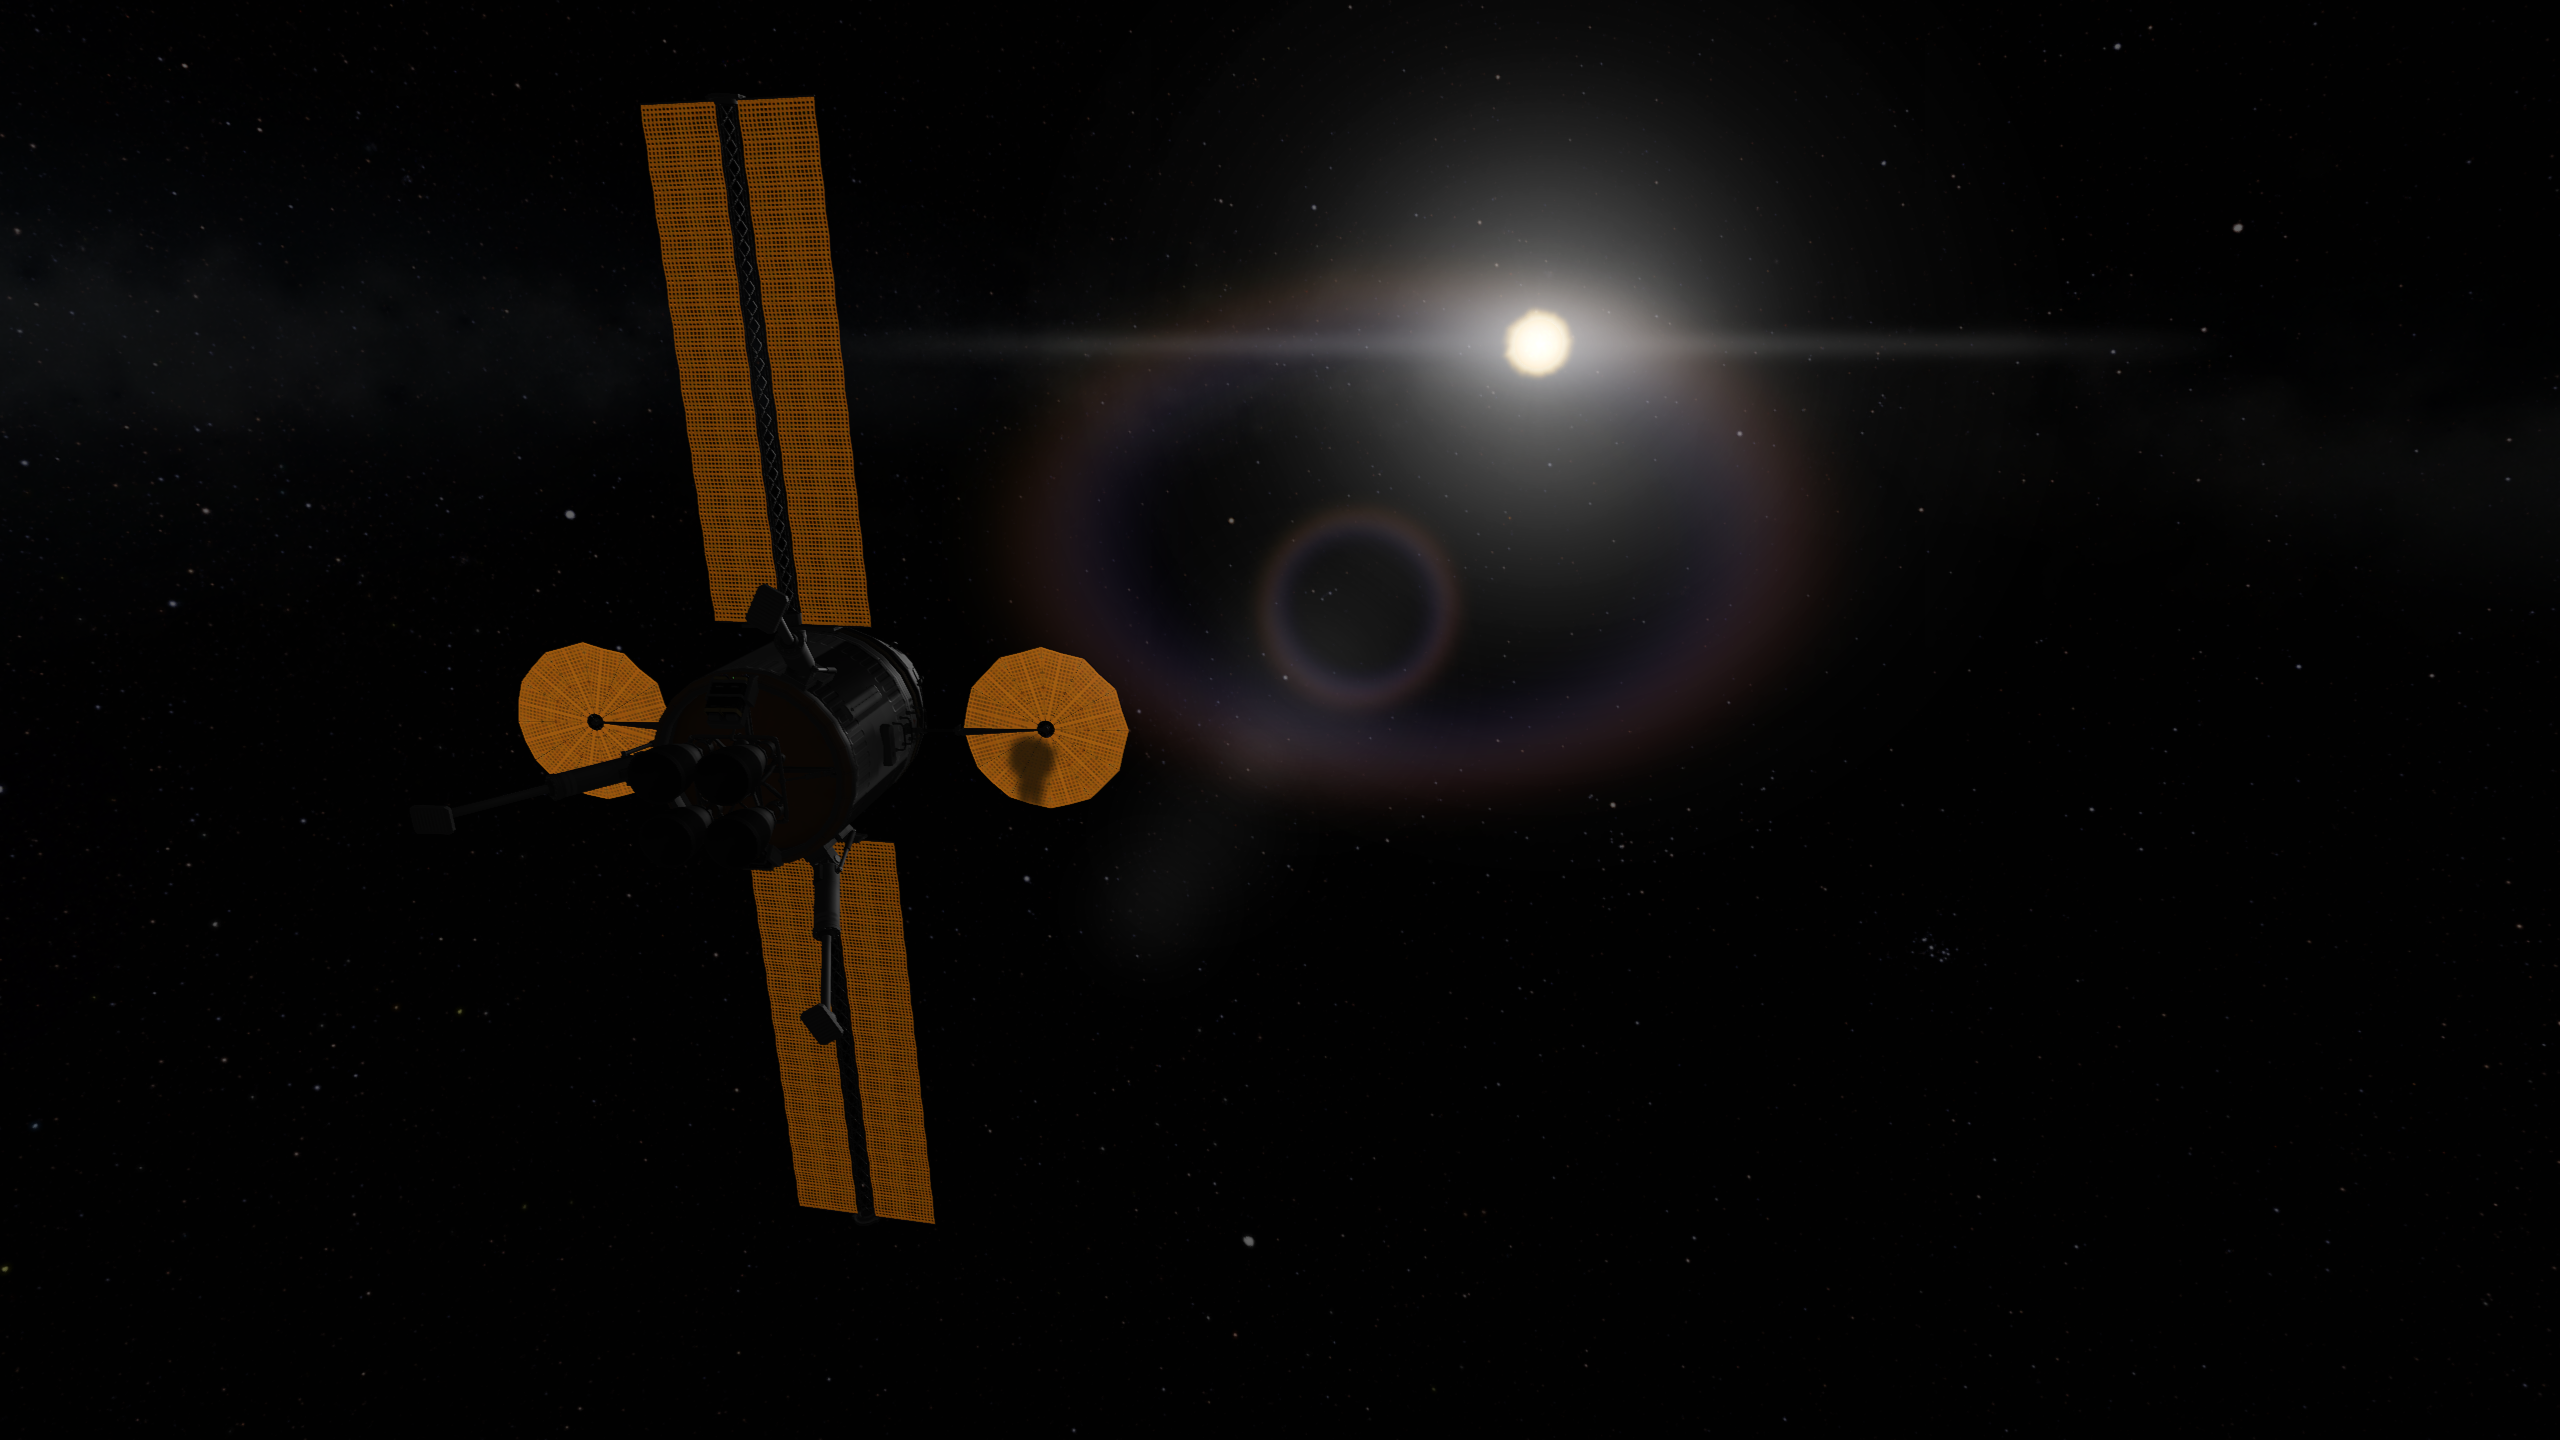
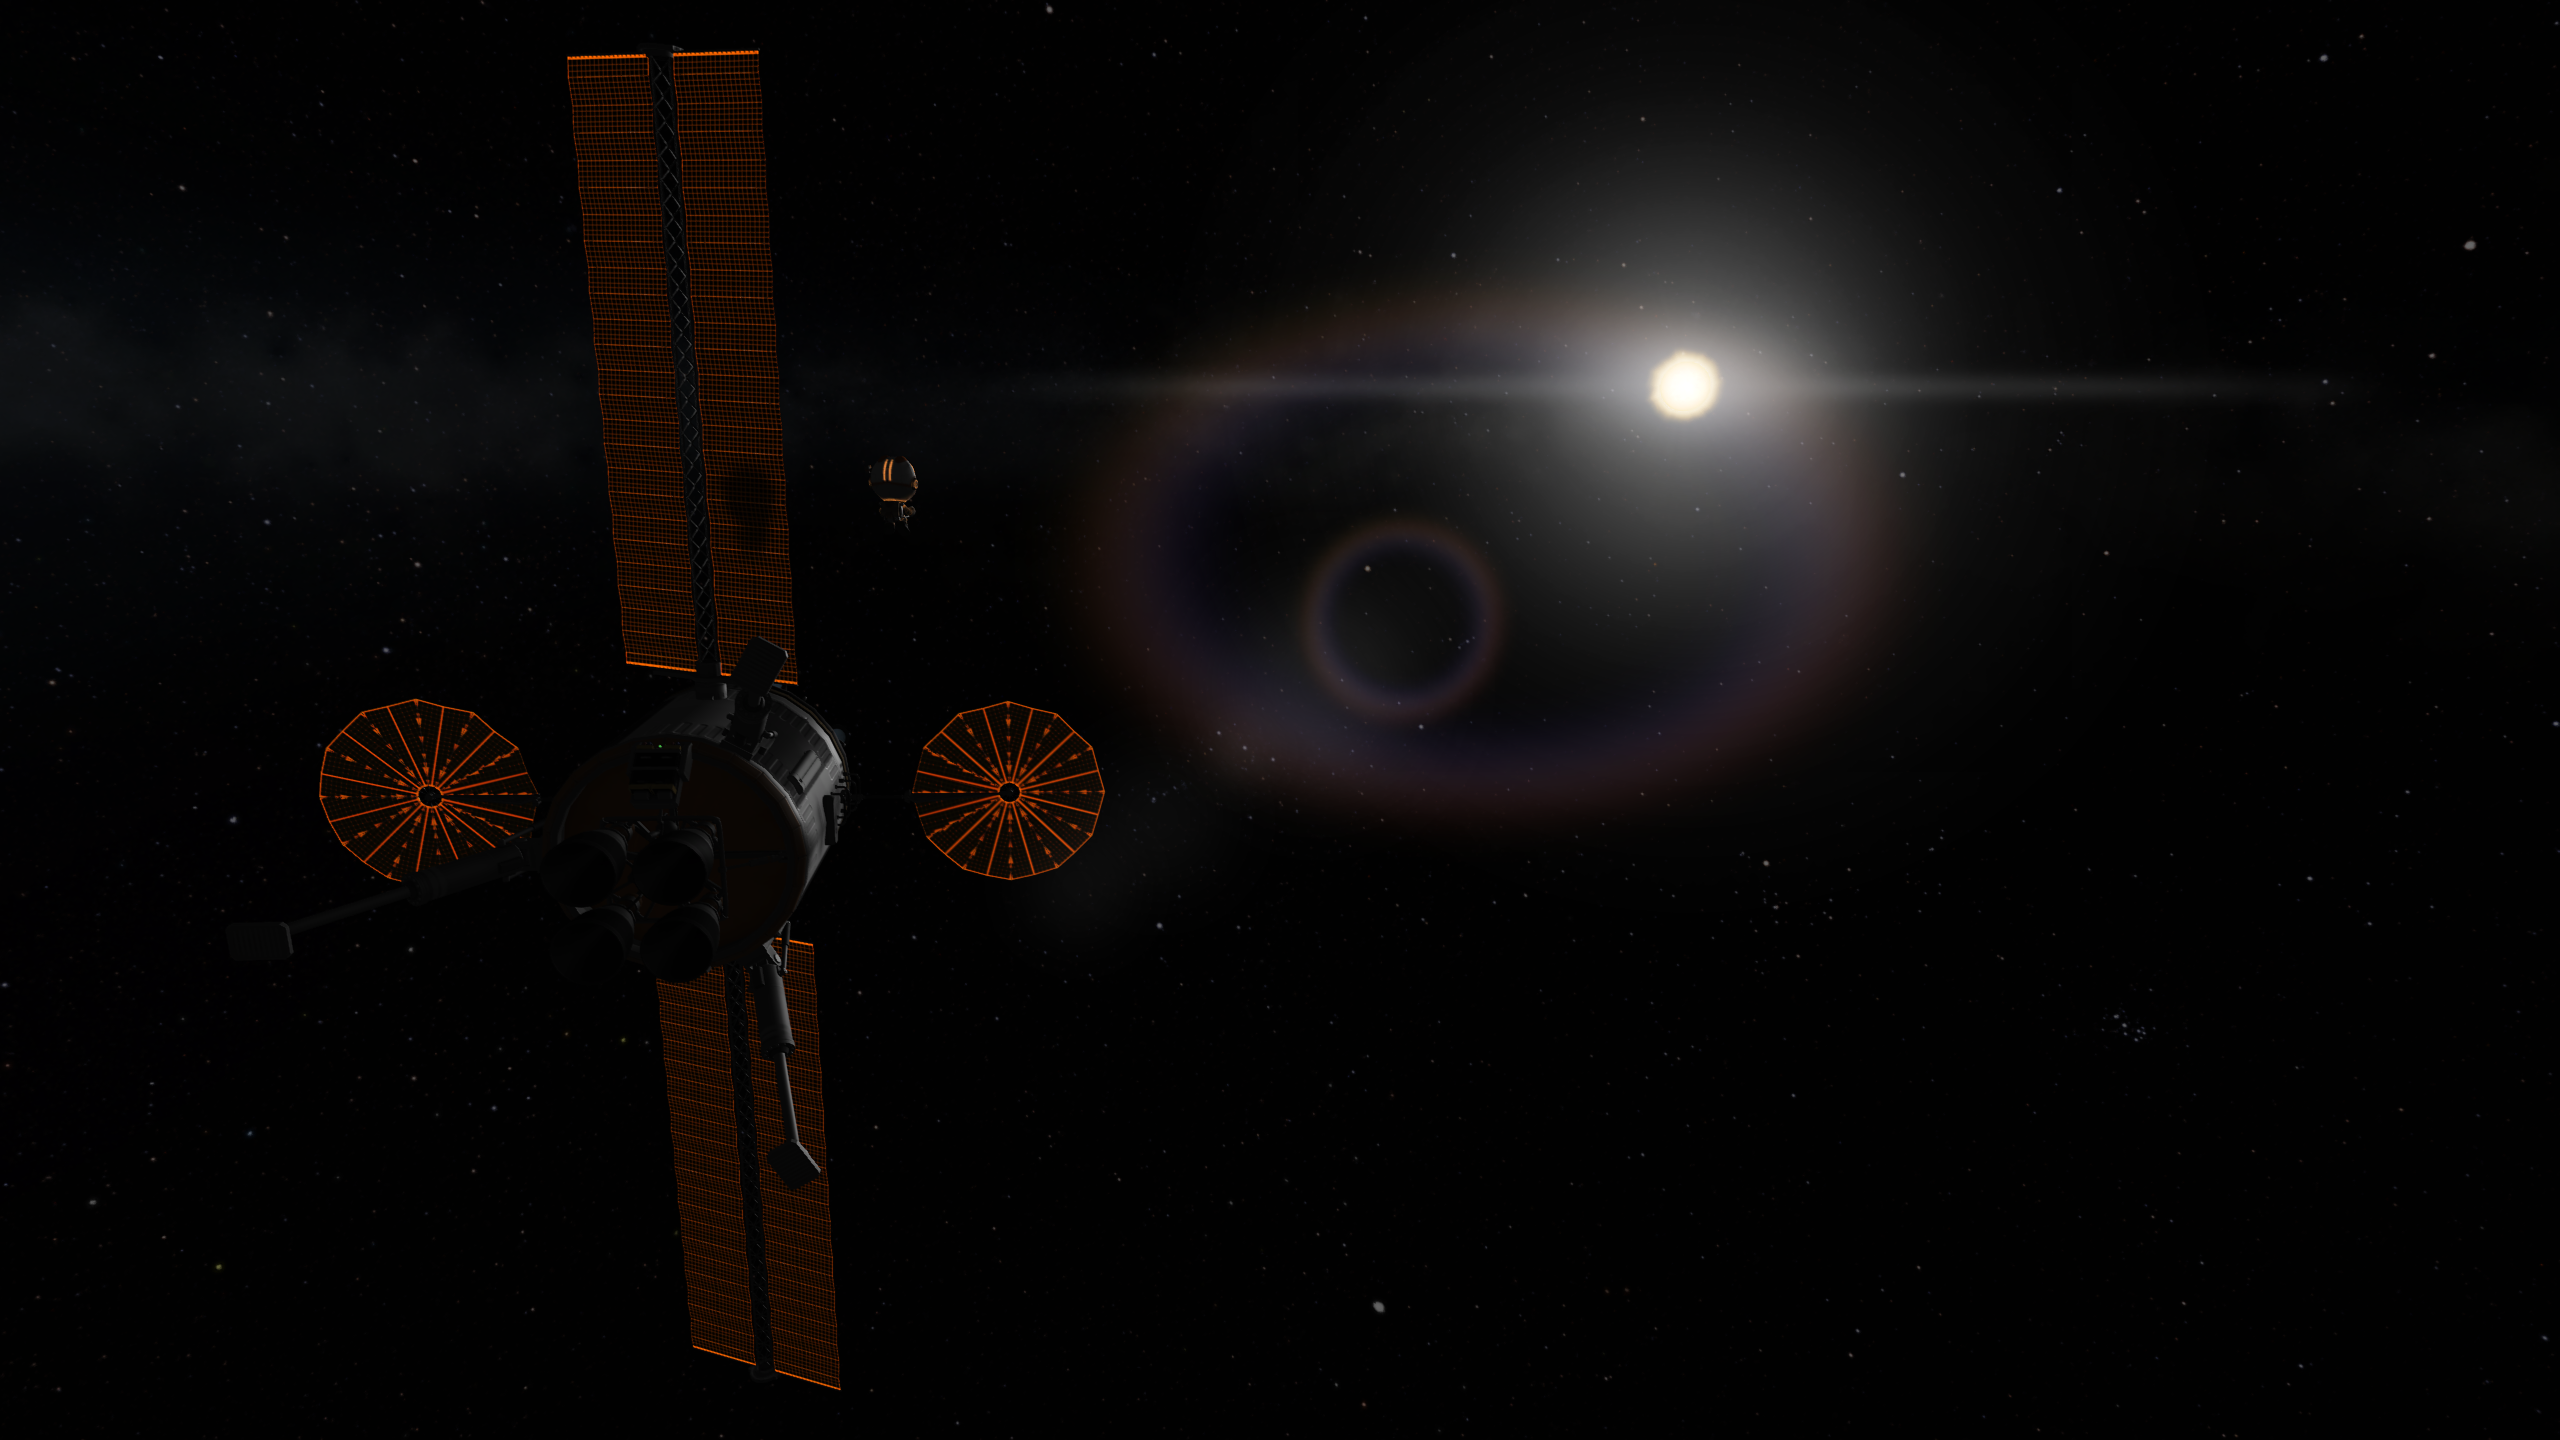
Updated README.md

diff --git a/README.md b/README.md
@@ -78,13 +78,15 @@ PROPERTY
 }
 ```
 
-**Notes on Possible Conflict:**
-
-If you installed the Shabby v0.2.0 "unofficial build" and Textures Unlimited at the same time, there will be a conflict, resulting in failed shader replacement from Textures Unlimited. This has been solved by the newest change in Shabby, but these changes haven't been released yet.
-
-**Notes:**
+**Modeling Notes:**
 
 All Shaddy/Translucent shaders are double-sided (No back face or front face culling). This means if you are making a parachute or a leaf model that has the same texture on both sides, you don't have to duplicate the mesh and then flip the faces, one-sided mesh will work just as fine as a double-sided one.
+
+---
+
+## Conflict
+
+If you installed the Shabby v0.2.0 "unofficial build" and Textures Unlimited at the same time, there will be a conflict, resulting in failed shader replacement from Textures Unlimited. This has been solved by the newest change in Shabby (>= v0.3.0). Get it here: http://taniwha.org/~bill/Shabby_v0.3.0.zip
 
 ---
 
@@ -144,7 +146,7 @@ Back
 
 ![](Media/ISSSolar-Back.png)
 
-[Shaddy/Translucent Specular (Spec Mapped) (Bumped)](#shaddytranslucent-specular-spec-mapped-bumped) shader on Restock solar panels
+[Shaddy/Translucent Specular (Spec Mapped) (Bumped)](#shaddytranslucent-specular-spec-mapped-bumped) shader on Restock solar panels, now with transmission texture by [Rodg88](https://github.com/Rodg88)
 
 ![](Media/RestockSolar.png)
 
@@ -447,7 +449,9 @@ The Rope low poly model looks like this, `Cast Shadows` should be set to `Off` i
 
 Shaders are made by [Icecovery](https://github.com/Icecovery) using [Shader Forge](https://github.com/FreyaHolmer/ShaderForge).
 
-Textures Unlimited config author: [JonnyOThan](https://github.com/JonnyOThan).
+Textures Unlimited config by [JonnyOThan](https://github.com/JonnyOThan).
+
+Restock transmission texture by [Rodg88](https://github.com/Rodg88).
 
 ---
 
